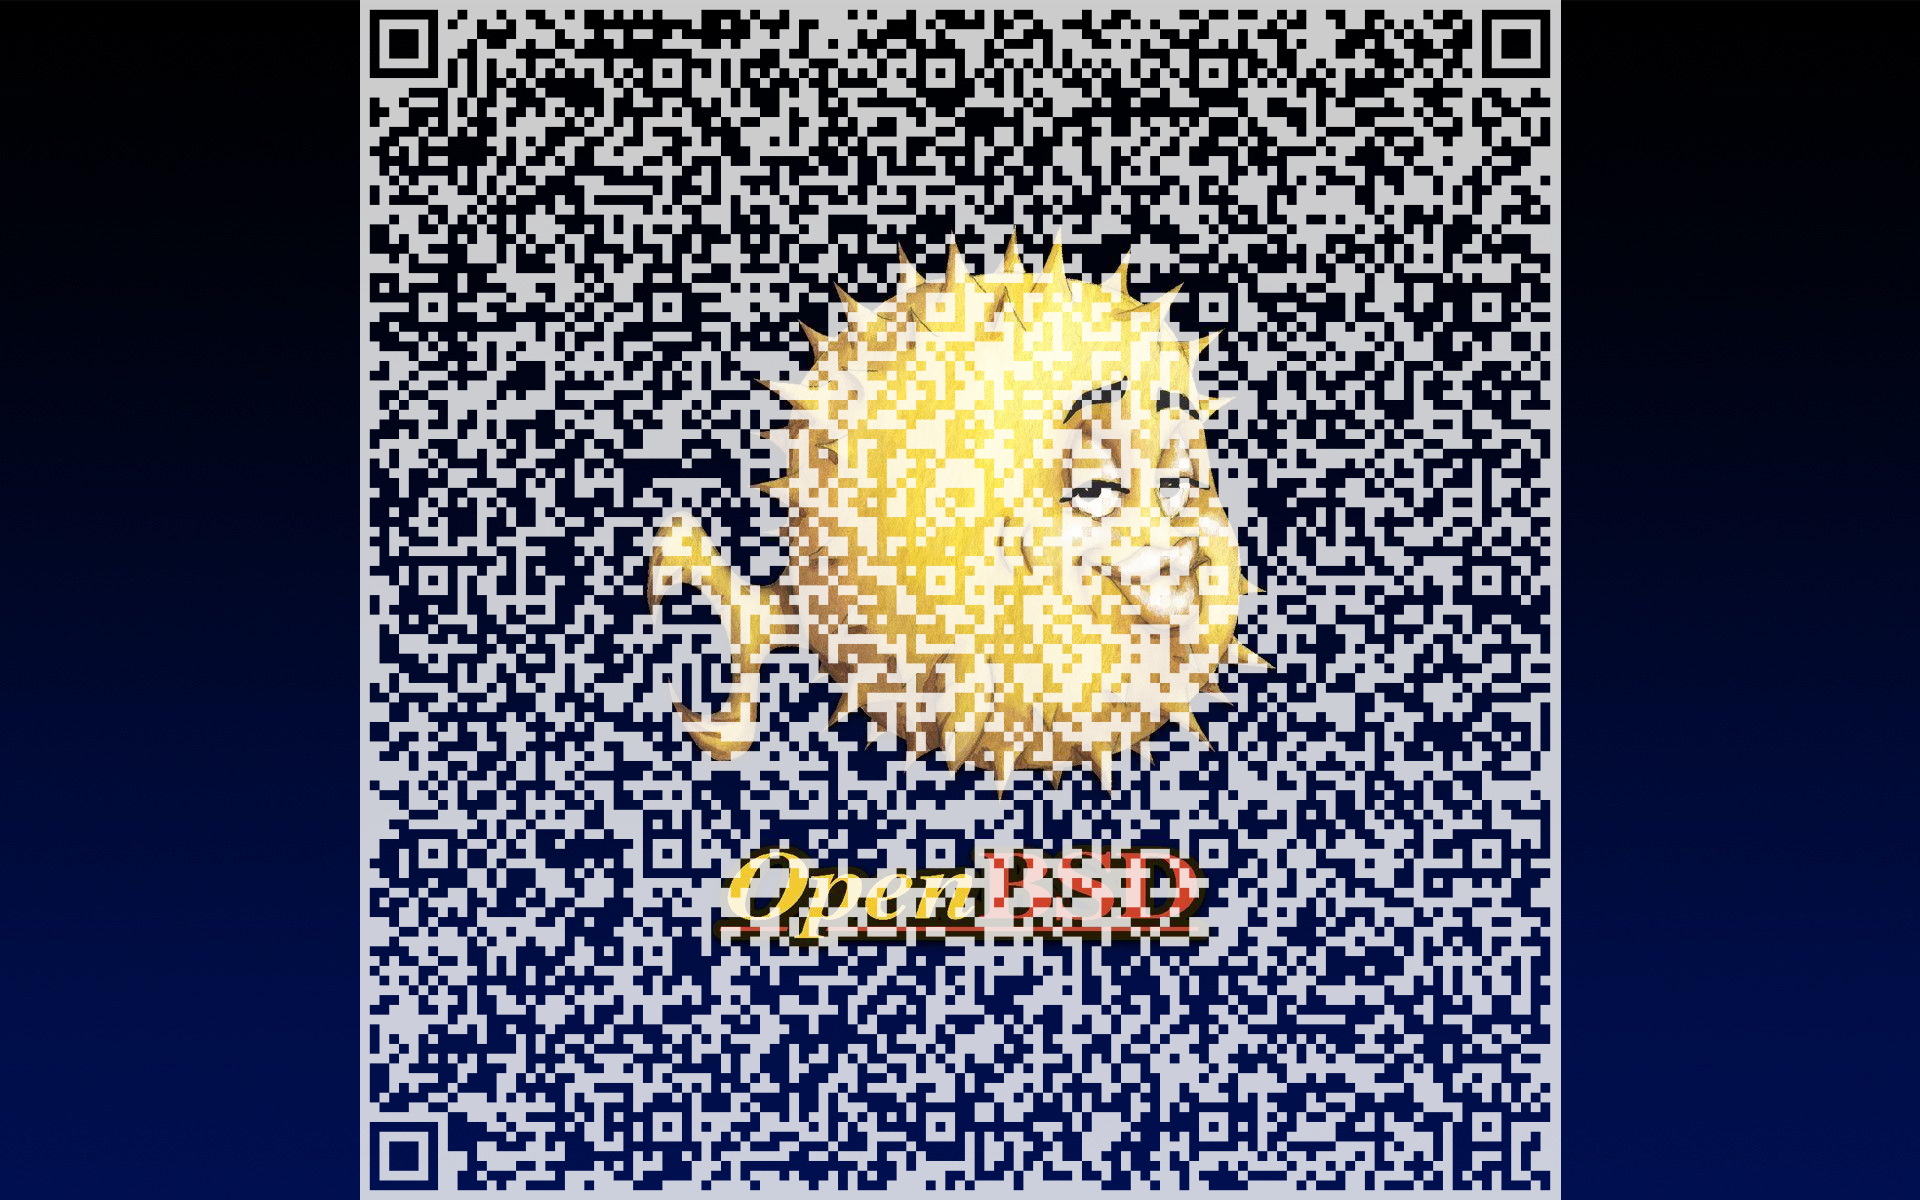
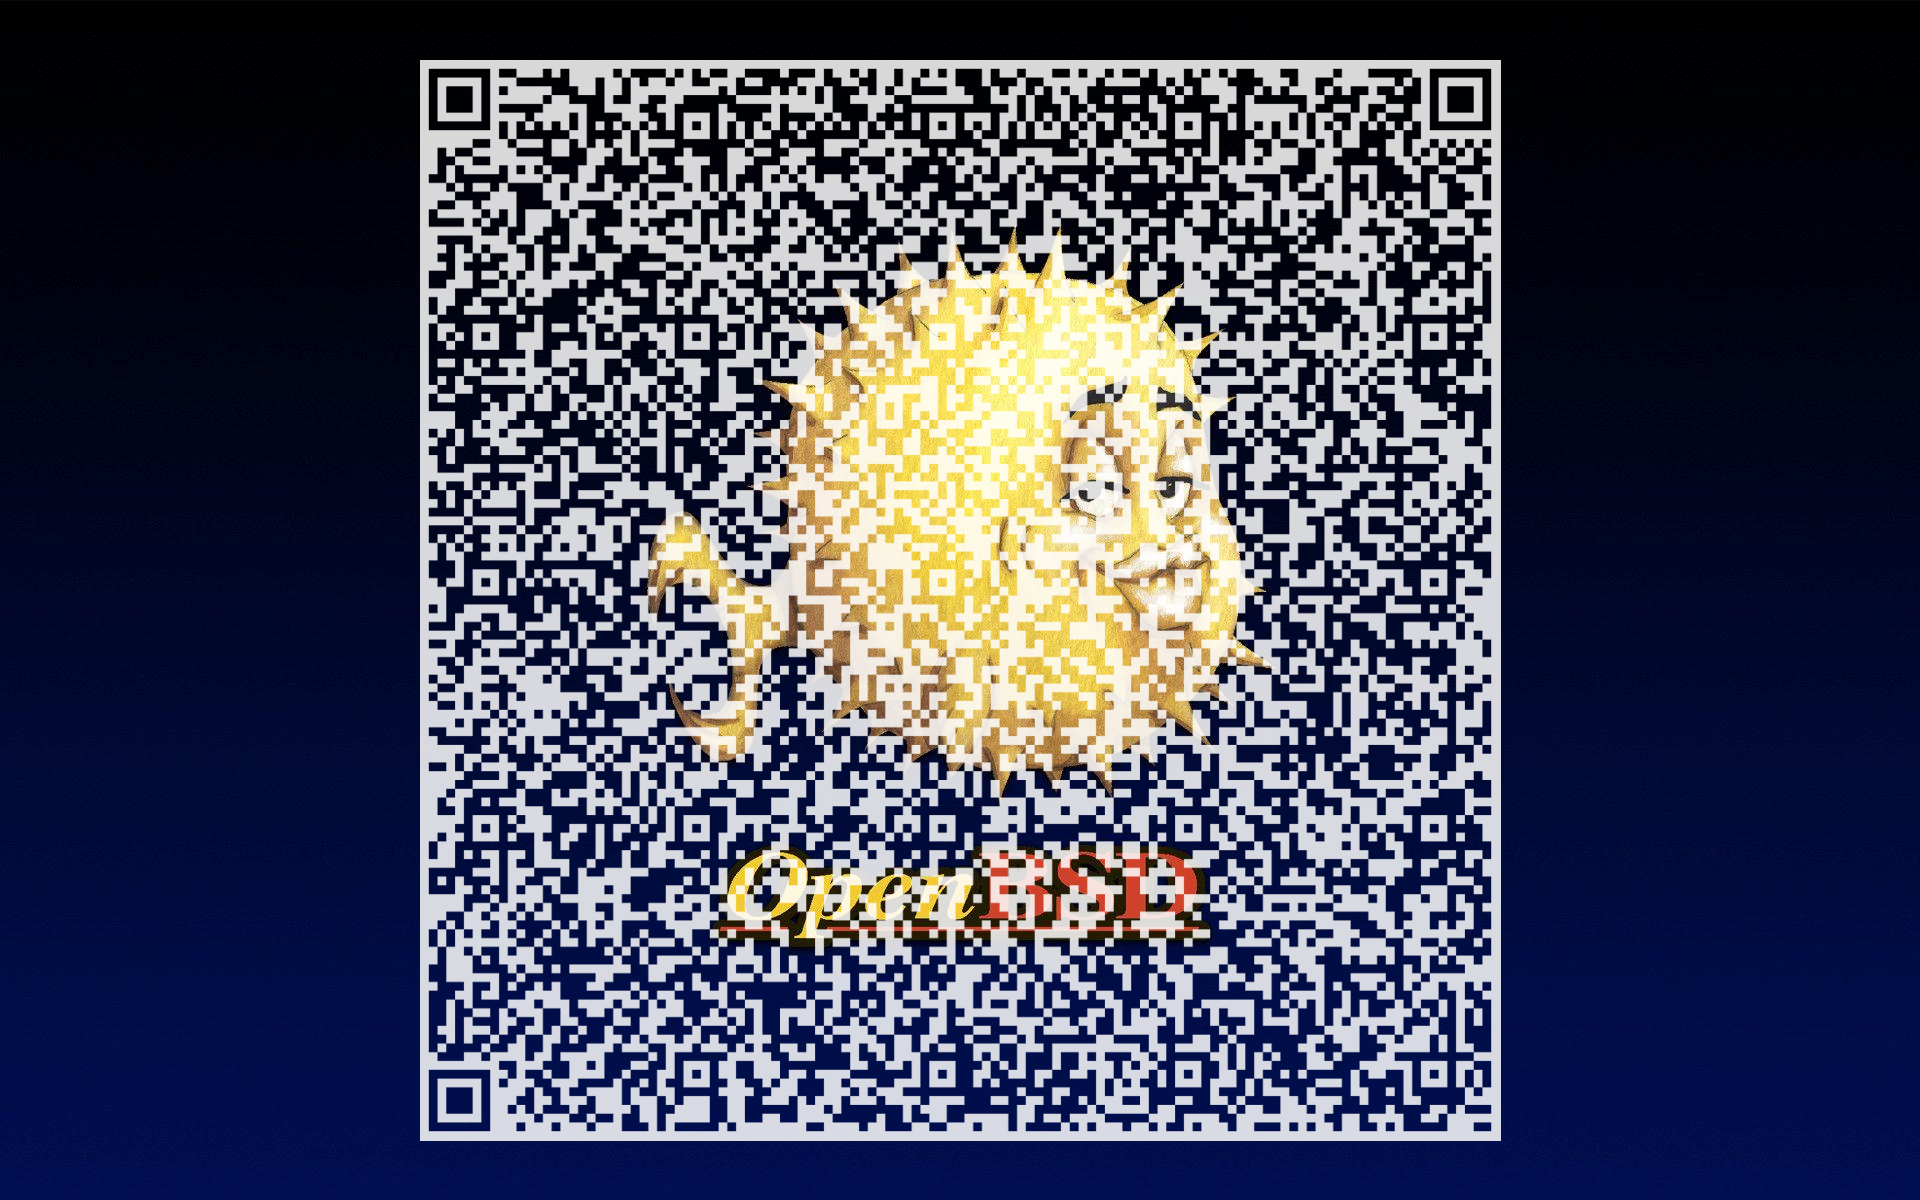
scale 90% for demo, update README

diff --git a/README.md b/README.md
@@ -3,7 +3,7 @@ Customize your Pass Sanitaire (French name for EU digital Covide19 Certificate) 
 
 ## Usage
 
-    usage: passfun.py [-h] [--pos POS] [--trans [TRANS]] [--test [TEST]] inputfile backgroundfile outputfile
+    usage: passfun.py [-h] [--scale [SCALE]] [--pos [POS]] [--trans [TRANS]] [--test [TEST]] inputfile backgroundfile outputfile
 
     Make your EU digital COVID certificate fun again.
 
@@ -14,7 +14,8 @@ Customize your Pass Sanitaire (French name for EU digital Covide19 Certificate) 
 
     optional arguments:
       -h, --help       show this help message and exit
-      --pos POS        Generated qrcode horizontal position, 0=left, 100=right
+      --scale [SCALE]  Scale of the target qrcode in percent, default=100
+      --pos [POS]      Generated qrcode horizontal position, 0=left, 100=right
       --trans [TRANS]  Background transparency, 0=white, 100=original image
       --test [TEST]    Download random test data from dgc-testdata instead of inputfile
 
